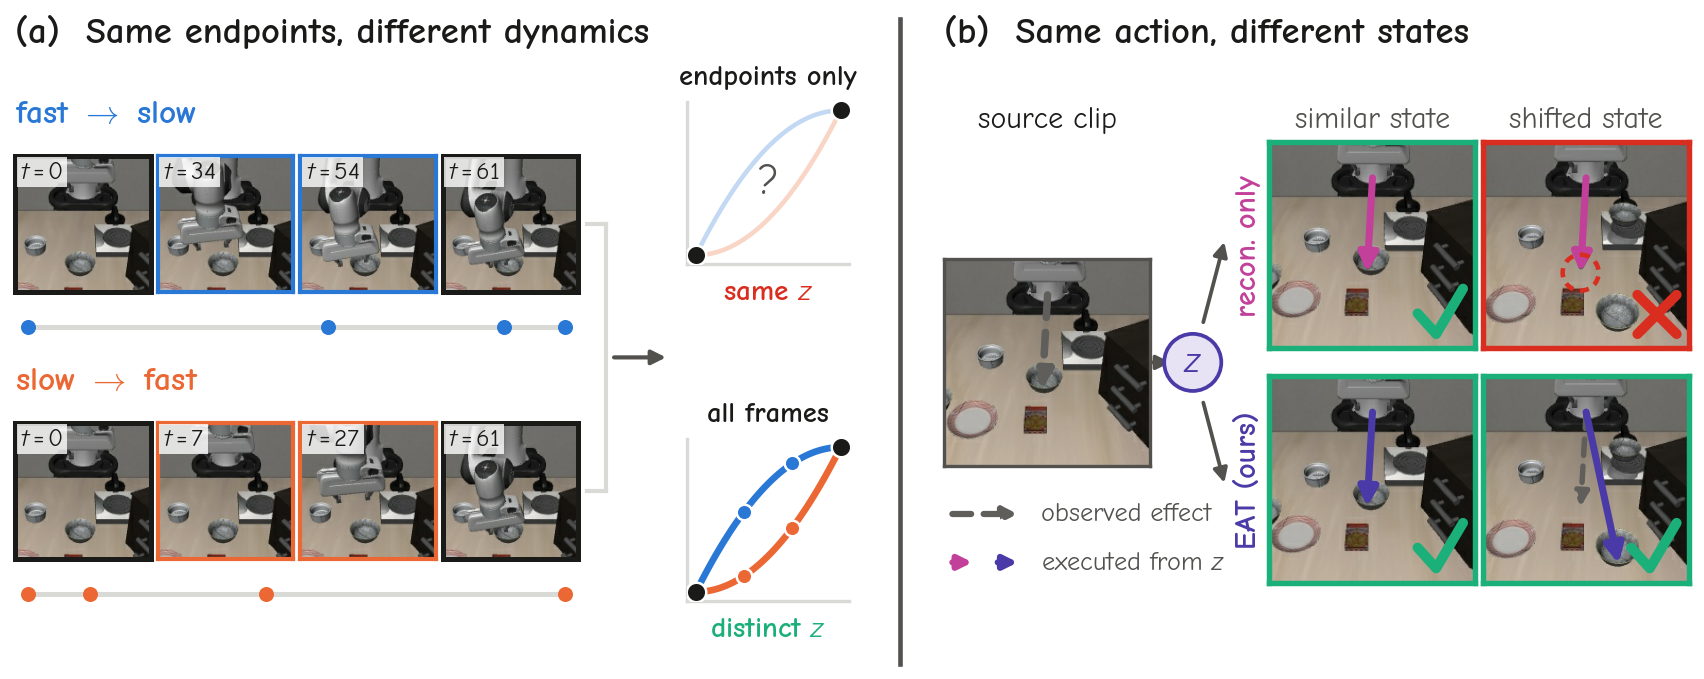
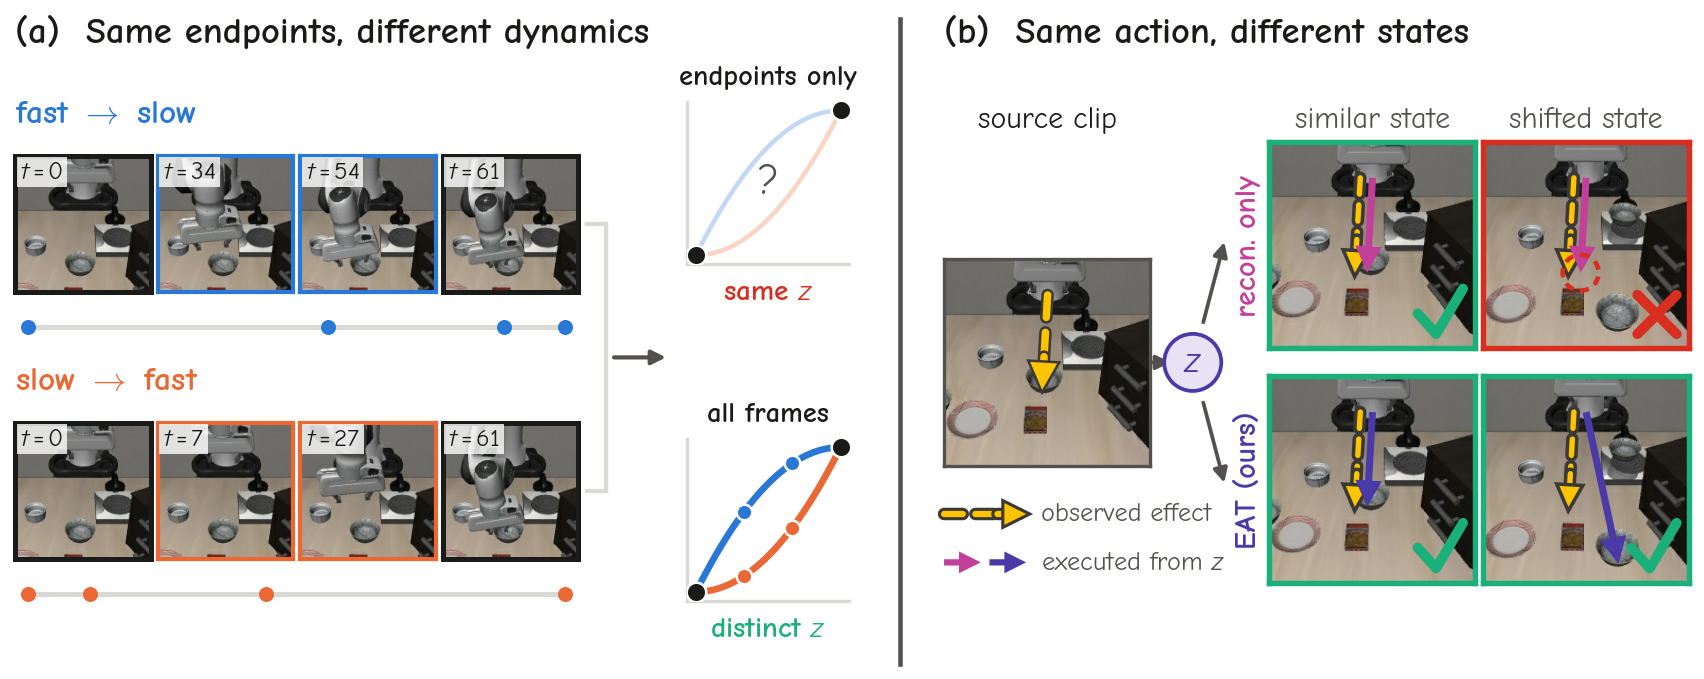
figures: teaser observed effect in outlined yellow, arrows drawn whole
Grey observed-effect arrows disappeared against the floor; they are now yellow with a dark outline, and in the
grid they run beside the executed arrow instead of underneath it.  A dashed FancyArrowPatch also dashes its
own head, which left broken arrowheads: dashed arrows are now a dashed shaft plus a solid head.

Claude-Session: https://claude.ai/code/session_01D41cpGfwM76yTZbfdphopa

diff --git a/acdc_la/figures/make_teaser_figure.py b/acdc_la/figures/make_teaser_figure.py
@@ -17,10 +17,11 @@ import matplotlib
 matplotlib.use("Agg")
 import matplotlib.pyplot as plt
 import numpy as np
+import matplotlib.patheffects as pe
 from matplotlib.patches import Circle, FancyArrowPatch, FancyBboxPatch, Wedge
 
 INK, INK2, GRID = "#1a1a19", "#52514e", "#d9d9d6"
-OBS = "#5f5e5a"                                              # the observed (source) effect, everywhere
+OBS = "#ffc400"                                              # the observed (source) effect, everywhere
 FAST, SLOW = "#2a78d6", "#eb6834"
 OURS, BAD, OK, RECON = "#4a3aa7", "#d92d20", "#1baf7a", "#c2409a"   # recon: magenta, clear of (a)'s orange
 
@@ -62,9 +63,28 @@ def _pt(p, crop, n=256):
     return ((p[0] - crop[0]) / (crop[2] - crop[0]) * side, (p[1] - crop[1]) / (crop[3] - crop[1]) * side)
 
 
+_EDGE = [pe.Stroke(linewidth=3.0, foreground="#3a3936"), pe.Normal()]   # dark outline: yellow on a light floor
+
+
+def _draw_arrow(add, p, q, col, ls, lw, ms, transform=None):
+    """A complete arrow.  A dashed linestyle would also dash the head's outline and leave it broken, so a
+    dashed arrow is a dashed shaft plus a solid head over its last stretch."""
+    kw = {} if transform is None else {"transform": transform}
+    fx = _EDGE if col == OBS else None
+    if ls == "-" or ls is None:
+        add(FancyArrowPatch(p, q, arrowstyle="-|>", mutation_scale=ms, color=col, lw=lw, shrinkA=0, shrinkB=0,
+                            zorder=5, path_effects=fx, joinstyle="miter", capstyle="butt", **kw))
+        return
+    p, q = np.asarray(p, float), np.asarray(q, float)
+    k = q - (q - p) * min(0.35, 1.0)                                  # where the solid head segment starts
+    add(FancyArrowPatch(p, k, arrowstyle="-", color=col, lw=lw, linestyle=ls, shrinkA=0, shrinkB=0, zorder=5,
+                        path_effects=fx, **kw))
+    add(FancyArrowPatch(k, q, arrowstyle="-|>", mutation_scale=ms, color=col, lw=lw, shrinkA=0, shrinkB=0,
+                        zorder=5, path_effects=fx, joinstyle="miter", **kw))
+
+
 def _arrow(ax, p, q, col, crop, ls="-", lw=1.7, ms=9):
-    ax.add_patch(FancyArrowPatch(_pt(p, crop), _pt(q, crop), arrowstyle="-|>", mutation_scale=ms, color=col,
-                                 lw=lw, linestyle=ls, shrinkA=0, shrinkB=0, zorder=5))
+    _draw_arrow(ax.add_patch, _pt(p, crop), _pt(q, crop), col, ls, lw, ms)
 
 
 def _mark(ax, ok):
@@ -184,7 +204,8 @@ def panel_b(fig, gs):
             if r == 1 and j == 3: cell_axes.append(ax)
             fail = (r == 0 and tag == SHIFTED)
             _img(ax, _frames(tag)[0], CROP_B, edge=BAD if fail else OK, lw=1.3)
-            _arrow(ax, GRIP, BOWL[DONOR], OBS, CROP_B, ls=(0, (3, 2)), lw=1.3, ms=7)
+            _arrow(ax, (GRIP[0] - 0.045, GRIP[1]), (BOWL[DONOR][0] - 0.045, BOWL[DONOR][1]), OBS, CROP_B,
+                   ls=(0, (3, 2)), lw=1.3, ms=7)   # beside, not under, the executed arrow
             target = BOWL[DONOR] if r == 0 else BOWL[tag]
             _arrow(ax, GRIP, target, col, CROP_B)
             if fail:
@@ -196,8 +217,7 @@ def panel_b(fig, gs):
     pa = a.get_position(); pd = d.get_position()
     x = pa.x0; y1 = pa.y0 - 0.075; y2 = y1 - 0.075
     def arr(x0, x1, y, c, ls="-"):
-        fig.add_artist(FancyArrowPatch((x0, y), (x1, y), arrowstyle="-|>", mutation_scale=6.5, color=c, lw=1.5,
-                                       linestyle=ls, transform=fig.transFigure))
+        _draw_arrow(fig.add_artist, (x0, y), (x1, y), c, ls, 1.5, 7, transform=fig.transFigure)
     arr(x, x + 0.038, y1, OBS, (0, (3, 2)))
     fig.text(x + 0.045, y1, "observed effect", fontsize=6.3, color=INK2, va="center")
     arr(x, x + 0.017, y2, RECON); arr(x + 0.021, x + 0.038, y2, OURS)
